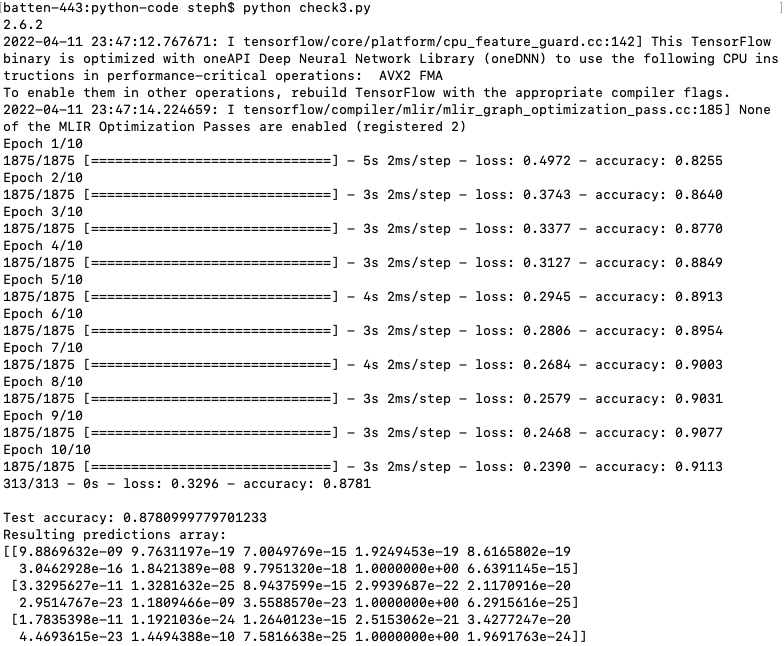
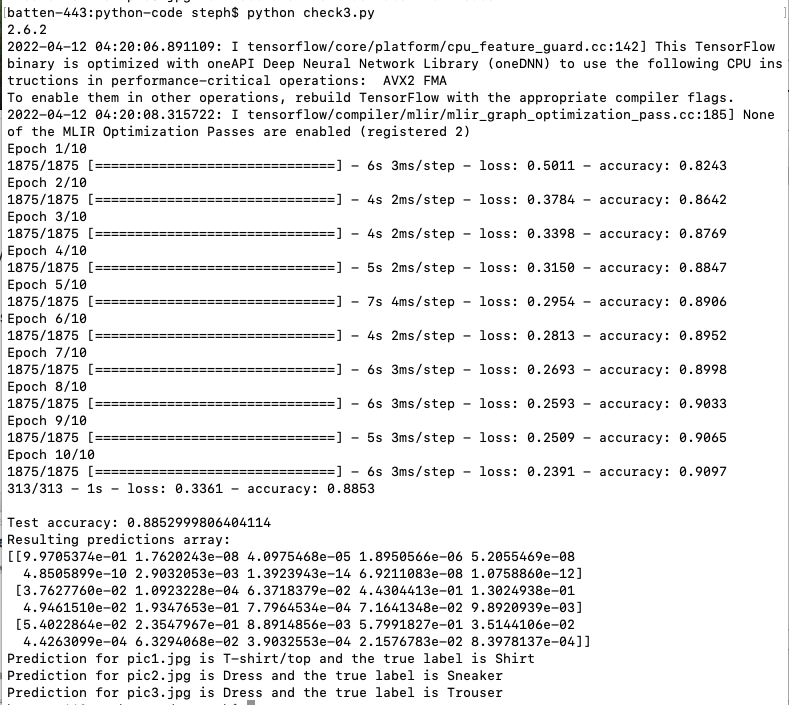
fixing lab 10

diff --git a/labs/lab-10/python-code/check3.py b/labs/lab-10/python-code/check3.py
@@ -95,25 +95,6 @@ print('\nTest accuracy:', test_acc)
 # attach a softmax layer to convert the model's linear outputs—logits—to probabilities
 probability_model = tf.keras.Sequential([model, 
                                          tf.keras.layers.Softmax()])
-# predict the label for each image in the testing set into a prediction array of 10 numbers
-predictions = probability_model.predict(test_images)
-# Plot the first X test images, their predicted labels, and the true labels.
-num_rows = 5
-num_cols = 3
-num_images = num_rows*num_cols
-'''
-plt.figure(figsize=(2*2*num_cols, 2*num_rows))
-# MODIFICATION: for i in range(num_images):
-for i in range(9000,9015):
-  # MODIFICATION: plt.subplot(num_rows, 2*num_cols, 2*i+1)
-  plt.subplot(num_rows, 2*num_cols, 2*(i - 9000)+1)
-  plot_image(i, predictions[i], test_labels, test_images)
-  # MODIFICATION: plt.subplot(num_rows, 2*num_cols, 2*i+2)
-  plt.subplot(num_rows, 2*num_cols, 2*(i-9000)+2)
-  plot_value_array(i, predictions[i], test_labels)
-plt.tight_layout()
-plt.show()
-'''
 
 
 # ----------------------------------- Use the Trained Model -------------------------------------
@@ -123,19 +104,19 @@ test_images = []
 # pic 1 code
 img = Image.open("images/pic1.jpg")
 resized_img = img.resize((28,28))
-grayscale_img = ImageOps.grayscale(resized_img)
+grayscale_img = ImageOps.invert(ImageOps.grayscale(resized_img))
 grayscale_img.save("images/pic1-edited.jpg")
 test_images.append(np.array(grayscale_img))
 # pic 2 code
 img2 = Image.open("images/pic2.jpg")
 resized_img2 = img2.resize((28,28))
-grayscale_img2 = ImageOps.grayscale(resized_img2)
+grayscale_img2 = ImageOps.invert(ImageOps.grayscale(resized_img2))
 grayscale_img2.save("images/pic2-edited.jpg")
 test_images.append(np.array(grayscale_img2))
 # pic 3 code
 img3 = Image.open("images/pic3.jpg")
 resized_img3 = img3.resize((28,28))
-grayscale_img3 = ImageOps.grayscale(resized_img3)
+grayscale_img3 = ImageOps.invert(ImageOps.grayscale(resized_img3))
 grayscale_img3.save("images/pic3-edited.jpg")
 test_images.append(np.array(grayscale_img3))
 
@@ -148,4 +129,4 @@ predictions = probability_model.predict(np_test_images)
 print("Resulting predictions array: ")
 print(predictions)
 for i in range(1,4):
-  print("Prediction for pic{i}.jpg is " + class_names[np.argmax(predictions[i-1])] + " and the true label is " + class_names[np_true_labels[i-1]])
+  print("Prediction for pic" + str(i) + ".jpg is " + class_names[np.argmax(predictions[i-1])] + " and the true label is " + class_names[np_true_labels[i-1]])

diff --git a/labs/lab-10/report.md b/labs/lab-10/report.md
@@ -2,7 +2,7 @@
 
 ## 1. Verify Your Tensorflow
 Tensorflow popup window successful from [checkpoint 1's example code](https://github.com/listeph/oss-repo-template/tree/master/labs/lab-10/python-code/check1.py): \
-![](/labs/lab-10/images/check1.png) \
+![](/labs/lab-10/images/check1.png)
 
 ## 2. Run a Tensorflow Classification
 Here are screenshots I have obtained from following the given Tensorflow Keras tutorial. \
@@ -13,9 +13,9 @@ This is the figure obtained from displaying the first 15 test images, their pred
 This is the figure obtained from using our trained model for prediction on a single image in `test_images`: \
 ![](/labs/lab-10/images/check2-image-prediction.png) \
 Finally, this is the figure obtained from displaying the test images 9000-9014 as specified in lab check 2 instruction. The code modification can be viewed at [python-code/check2.py](https://github.com/listeph/oss-repo-template/tree/master/labs/lab-10/python-code/check2.py): \
-![](/labs/lab-10/images/check2-test-images-9000.png) \
+![](/labs/lab-10/images/check2-test-images-9000.png)
 
 ## 3. Curate Some Data
 The code where I used ImageOps and Image from Pillow to transform images is given in [python-code/check3.py](https://github.com/listeph/oss-repo-template/tree/master/labs/lab-10/python-code/check3.py). The resulting images and their transformed grayscale 28x28 versions are available to view in the [python-code/images folder](https://github.com/listeph/oss-repo-template/tree/master/labs/lab-10/python-code/images)\
 The resulting predictions for each of the three images can be shown here: \
-![](/labs/lab-10/images/check3-predictions-array.png) \
+![](/labs/lab-10/images/check3-predictions-array.png)
